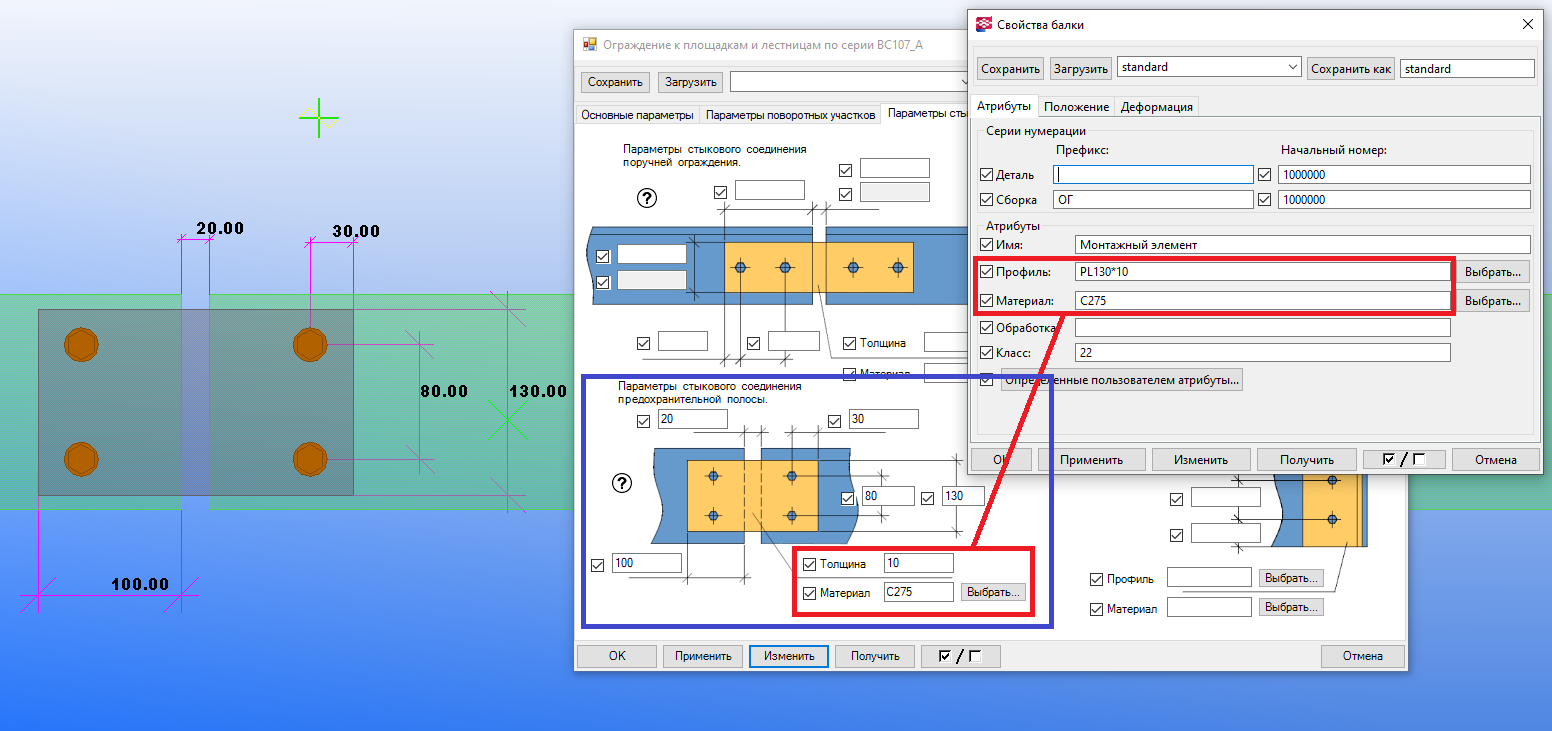
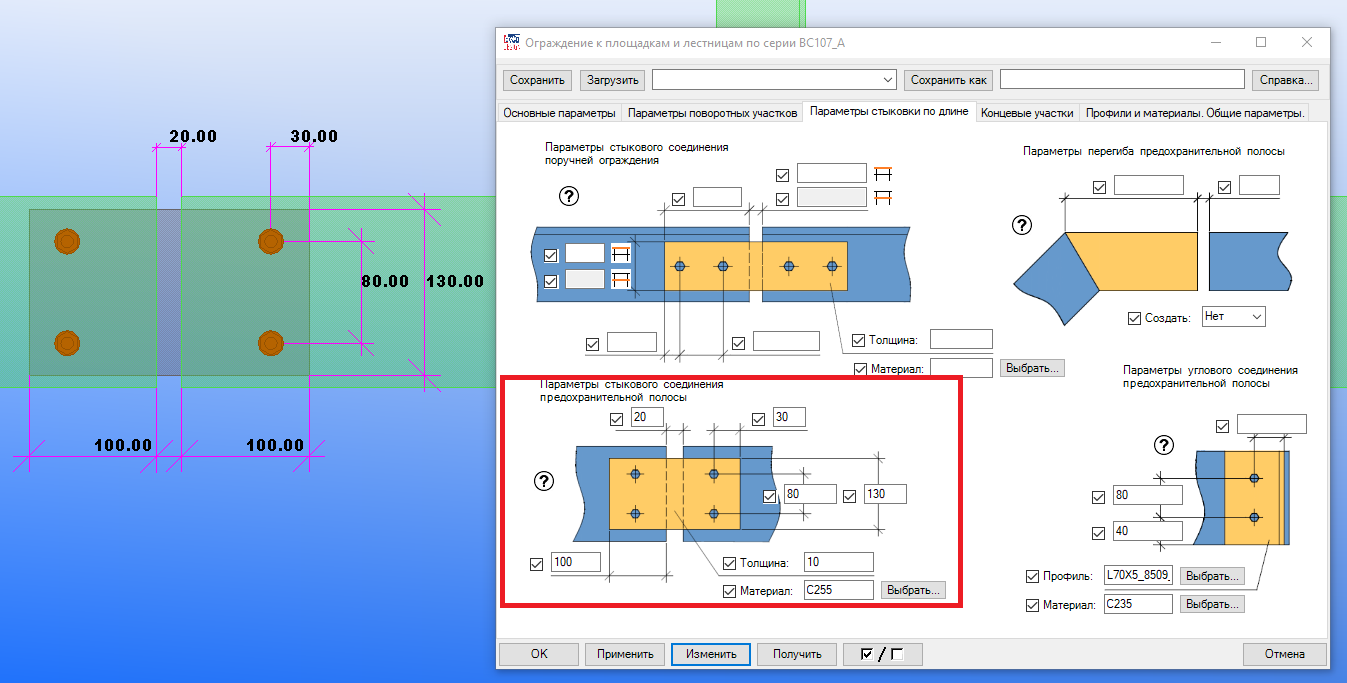
1

diff --git a/index.md b/index.md
@@ -1,44 +1,49 @@
 [TOC]
 
-# Ограждение к площадкам и лестницам по серии ВС107-А.
+# Ограждение к площадкам и лестницам по серии ВС107-А
 
-Плагин позволяет автоматически расставлять секции ограждений.
+Плагин позволяет автоматически расставлять секции ограждений на площадки и косоуры.
 
-Плагин предназначен для крепления ограждений следующего сечения:
+Предназначен для крепления ограждений следующего сечения:
 
 - Первый и второй поручни – уголок равнополочный по ГОСТ 8509-93.
-- Отбортовочная полоса – полоса или лист PL.
+- Предохранительная полоса – полоса или лист PL.
 - Стойки ограждения – уголок равнополочный ГОСТ 8509-93.
 
 Версия программы – 21.0 2017..2019i.
 
-## 1. Основные геометрические параметры.
+## Основные геометрические параметры
 
 Данное меню служит для задания базовых настроек ограждения (высоты, привязки поручней, базового шага стоек и т.д.).
 
-1. Основные базовые параметры задаются в стартовом окне плагина. Ими являются общая высота ограждения, привязка уровня нижнего поручня и его ориентация, горизонтальная и вертикальная привязка к точкам вставки плагина.
-2. Отдельно вынесены высота ограждения и привязка нижнего поручня для наклонных участков ограждения (см .рис 1.1.) и данные настройки применяются для участков ограждения, которые имеют уклон более 10 градусов.
-3. Базовый шаг стоек ограждения задается универсальным, для всех построенных секций ограждения и в дальнейшем может быть изменен индивидуально для каждой отдельной секции (см. п. 2).
-4. Базовая привязка стартовой стойки секции ограждения задается универсальной, для всех построенных секций ограждения и в дальнейшем может быть изменена индивидуально для каждой отдельной секции (см. п. 3).
+1. Базовые параметры задаются в окне плагина "Основные параметры". Задается общая высота ограждения, привязка уровня нижнего поручня и его ориентация, горизонтальная и вертикальная привязка к точкам вставки плагина.
+2. Отдельно вынесены высота ограждения и привязка нижнего поручня для наклонных участков ограждения (см .рис 1.1.) . Данные настройки применяются для участков ограждения, которые имеют уклон более *10 градусов*.
+3. Базовый шаг стоек ограждения задается универсально для всех секций ограждения, или может быть изменен индивидуально для каждой отдельной секции (см. п. 2).
+4. Базовая привязка первой стойки секции ограждения задается универсально для всех секций ограждения, или может быть изменена индивидуально для каждой отдельной секции (см. п. 3).
 
 ![1.1](pic/1.1.PNG)
 
 Рис. 1.1.
 
-## 2. Задание индивидуального шага стоек.
+## Задание индивидуального шага стоек
 
 Данное меню служит для задания индивидуального шага секции ограждения по её порядковому номеру.
 
-### Порядок задания.
+**Действия:**
 
-Следуйте по следующим шагам:
+1. Постройте плагином необходимые секции ограждения;
 
-1. Постройте плагином необходимые секции ограждения.
-2. Определите номер секции ограждения, шаг стоек которой необходимо изменять (см. рис. 2.1).
-3. Введите номер секции ограждения, точку, после точки требуемый шаг стоек секции ограждения. Например: 3.400 (см. рис. 2.2).
-4. Обновите плагин.
-5. Вводить данные параметры можно сразу для нескольких секций. Индивидуальные настройки шагов секций должны быть разделены пробелом. Например: 3.400 6.700 10.900.
-6. Порядок ввода номеров секций не важен.
+2. Определите номер секции ограждения, шаг стоек которой необходимо изменить (см. рис. 2.1);
+
+3. Введите номер секции ограждения - точка - требуемый шаг стоек секции ограждения.
+
+   Например: 3.400 (см. рис. 2.2);
+
+4. Обновите плагин;
+
+5. Вводить параметры можно сразу для нескольких секций. Индивидуальные настройки шагов секций должны быть разделены пробелом. Например: 3.400 6.700 10.900;
+
+6. Последовательность ввода номеров секций не важна.
 
 ![2.1](pic/2.1.png)
 
@@ -48,23 +53,23 @@
 
 Рис. 2.2.
 
-## 3. Задание индивидуальной привязки стоек.
+## Задание индивидуальной привязки стоек
 
-Данное меню служит для задания индивидуальной стартовой привязки стоек ограждения в соответствии с номером секции.
+Данное меню служит для задания индивидуальной начальной привязки стоек ограждения в соответствии с номером секции.
 
-### Действия.
+**Действия:**
 
-Следуйте по следующим шагам:
+1. Постройте плагином необходимые секции ограждения;
 
-1. Постройте плагином необходимые секции ограждения.
+2. Определите номер секции ограждения, начальную привязку стоек которой необходимо изменить (см. рис. 3.1);
 
-2. Определите номер секции ограждения, стартовый шаг стоек которой необходимо изменять (см. рис. 3.1).
+3. Введите номер секции ограждения - точка - требуемую привязку стоек секции ограждения.
 
-3. Введите номер секции ограждения, точку, после точки требуемую стартовую привязку стоек секции ограждения. Например: 3.400 (см. рис. 2.2).
+    Например: 3.400 (см. рис. 2.2);
 
-4. Вводить данные параметры можно сразу для нескольких секций. Индивидуальные настройки шагов секций должны быть разделены пробелом. Например: 3.400 6.700 10.900.
+4. Вводить данные параметры можно сразу для нескольких секций. Индивидуальные настройки привязки стоек секций должны быть разделены пробелом. Например: 3.400 6.700 10.900;
 
-5. Порядок ввода номеров секций не важен.
+5. Последовательность ввода номеров секций не важна.
 
    ![2.1](pic/2.1.png)
 
@@ -76,17 +81,17 @@
 
    
 
-## 4. Изменение ориентации ограждения.
+## Изменение ориентации ограждения
 
 Данное меню служит для изменения ориентации секций ограждения (см. рис. 4.1. и 4.2).
 
-### Действия.
+**Действия:**
 
-После построения секций ограждения необходимо убедиться в правильности их ориентации (стороны, в которую развернуты поручни и предохранительная полоса).
+После построения секций ограждения, необходимо убедиться в правильности их ориентации (стороны, в которую развернуты поручни и предохранительная полоса).
 
-Данная настройка позволяет изменять ориентацию построенного ограждения. При этом все веденные точки ограждения меняют свой порядок на обратный, что соответственно ведет к изменению номеров секций ограждений, а также узлов.
+Данная настройка позволяет изменять ориентацию ограждения. При этом, все введенные точки ограждения меняют свой порядок на обратный, меняются номера секций и узлов.
 
-В меню выбора есть два параметра "Правый поворот" и "Левый поворот". Случаем по умолчанию является первый вариант.
+В меню выбора есть два параметра - "Правый поворот" и "Левый поворот". По умолчанию устанавливается "Правый поворот".
 
 **Внимание!** 
 
@@ -102,7 +107,7 @@
 
 Рис. 4.2.
 
-## 5. Ориентация нижнего пояса.
+## Ориентация нижнего пояса
 
 Данное меню служит для изменения ориентации нижнего поручня ограждения. 
 
@@ -118,18 +123,16 @@
 
 Рис. 5.1.
 
-## 6. Стык поручней ограждения 90 градусов.
+## Стык поручней ограждения 90 градусов
 
 Данное меню служит для задания параметров стыка поручней ограждения под 90 градусов.
 
-### Действия.
-
 Настройки плагина позволяют регулировать:
 
-1. Привязку болтов к краю стыковочной пластины, а также шаг болтов по горизонтали. Позиционирование болтов по вертикали выполнено таким образом, что они от центрованы по стыковочной пластине.
-2. По вертикали болты привязываются к наружной грани стыковочной пластины.
-3. Настройки позволяют регулировать профиль и материал стыковочной пластины.
-4. Если высота уголка нижнего поручня принимается 40 мм и менее (профиль L40 и менее), то стыковочная планка не создаётся и поручни стыкуют только регулированием подрезки (см. рис. 6.3).
+1. Привязку болтов к краю стыковочной пластины, а также шаг болтов по горизонтали. Привязка болтов по вертикали выполнена по центру пластины;
+2. По горизонтали болты привязываются к грани стыковочной пластины.
+3. Настройки позволяют регулировать профиль и материал стыковочной пластины;
+4. Если высота уголка нижнего поручня принимается 40 мм и менее (профиль L40 и менее), то стыковочная планка не создаётся, поручни стыкуют только регулированием подрезки (см. рис. 6.3).
 
 ![6.1](pic/6.1.PNG)
 
@@ -143,18 +146,16 @@
 
 Рис 6.3.
 
-## 7. Перегиб поручней ограждения.
+## Перегиб поручней ограждения
 
 Данное меню служит для задания параметров перегиба поручней ограждения.
 
-### Действия.
-
 Настройки плагина позволяют регулировать:
 
-1. Зазор между стыкуемыми поручнями.
-2. Привязку болтов к краю стыковочной планки, а также шаг болтов по горизонтали. Позиционирование болтов по вертикали выполнено таким образом, что центр группы болтов совмещен с центром стыковочной планки.
-3. Регулировать длину стыковочной планки, ее высоту, толщину и материал.
-4. Если высота уголка нижнего поручня принимается 40 мм и менее (профиль L40 и менее), то стыковочная планка не создаётся и поручни стыкуют только регулированием подрезки (см. рис. 7.2.).
+1. Зазор между стыкуемыми поручнями;
+2. Привязку болтов к краю стыковочной планки, шаг болтов по горизонтали. Привязка болтов по вертикали выполнена по центру пластины;
+3. Регулировать длину стыковочной планки, ее высоту, толщину и материал;
+4. Если высота уголка нижнего поручня принимается 40 мм и менее (профиль L40 и менее), то стыковочная планка не создаётся и поручни стыкуют только регулированием подрезки (см. рис. 7.2.);
 5. Поле ввода белого цвета предназначено для верхних поручней ограждения, серого цвета - для нижних поручней ограждения.
 
 ![7.1](pic/7.1.PNG)
@@ -165,18 +166,18 @@
 
 Рис. 7.2.
 
-## 8. Смещение коротких участков поручней при внутреннем повороте ограждения.
+## Смещение коротких участков поручней при внутреннем повороте ограждения
 
 Данное меню служит для формирования правильной геометрии ограждения при построении внутреннего участка ограждения лестничных маршей.
 
-### Действия.
+**Действия:**
 
-1. После построения внутреннего поворота лестничных ограждений, первоначально может быть сформирована геометрия, не позволяющая верно построить узлы соединения поручней (см. рис. 8.1).
-2. Для того, чтобы сместить короткий участок ограждения, необходимо указать его номер, а также величину смещения (см. рис. 8.2.).
-3. Отдельно указываются номера узлов и значение смещения для нижних и верхних профилей.
-4. Номера секций могут быть указаны через пробел. Например: 3 5 9 10.
-5. Порядок ввода номеров узлов не важен.
-6. Параметры смещения принимаются равными для всех указанных в этом разделе секций.
+При построении внутреннего поворота лестничных ограждений, первоначально может получиться геометрия, которая не позволяет верно построить узлы соединения поручней (см. рис. 8.1).
+
+2. Редактирование длины поворотного участка ограждения. Чтобы сместить короткий участок ограждения, необходимо указать его номер, а также величину смещения (см. рис. 8.2.);
+3. Отдельно указываются номера узлов, величина смещения для нижних и верхних профилей;
+4. Возможно задавать смещение для нескольких участков (узлов) одновременно. Номера узлов необходимо вводить через пробел. Например: 3 5 9 10;
+5. Последовательность ввода номеров узлов не важна.
 
 ![8.1](pic/8.1.PNG)
 
@@ -186,20 +187,18 @@
 
 Рис. 8.2.
 
-## 9. Стык поручней при помощи подрезки.
+## Стык поручней без применения болтов
 
-Данное меню служит для задания индивидуального стыка, в виде подрезки двух поручей но номеру узла.
+Данное меню служит для задания стыка поручней без применения болтов по номеру узла.
 
-### Действия.
+**Действия:**
 
-Следуйте по следующим шагам:
-
-1. Постройте плагином необходимые секции ограждения.
-2. Определите номер узла, в котором необходимо задать данный тип стыка (см. рис. 9.1).
-3. Введите номер узла. Например: 1 (см. рис. 9.2). Отдельно вводятся номера узлов для верхних и нижних поручней. 
-4. Обновите плагин.
-5. Вводить данные параметры можно сразу для нескольких узлов. Номера узлов необходимо вводить через пробел, например: 1 5 9 10.
-6. Порядок ввода номеров узлов не важен.
+1. Постройте плагином необходимые секции ограждения;
+2. Определите номер узла, в котором необходимо задать данный тип стыка (см. рис. 9.1);
+3. Введите номер узла. Например: 1 (см. рис. 9.2). Отдельно вводятся номера узлов для верхних и нижних поручней.;
+4. Обновите плагин;
+5. Применять данный стык можно для нескольких узлов одновременно. Номера узлов необходимо вводить через пробел, например: 1 5 9 10;
+6. Последовательность ввода номеров узлов не важна.
 
 ![9.1](pic/9.1.PNG)
 
@@ -209,18 +208,16 @@
 
 Рис. 9.2.
 
-## 10. Стык поручней ограждения по длине.
+## Стык поручней ограждения по длине
 
-Данное меню служит для задания параметров стыка поручней ограждения по длине.
-
-### Действия.
+Данное меню служит для задания параметров узла соединения поручней ограждения по длине.
 
 Настройки плагина позволяют регулировать:
 
-1. Зазор между стыкуемыми поручнями.
-2. Привязку болтов к краю стыковочной планки, а также шаг болтов по горизонтали. Позиционирование болтов по вертикали выполнено таким образом, что центр группы болтов совмещен с центром стыковочной планки.
-3. Регулировать длину стыковочной планки, ее высоту, толщину и материал.
-4. Если высота уголка нижнего поручня принимается 40 мм и менее (профиль L40 и менее), то стыковочная планка не создаётся и поручни стыкуют только регулированием подрезки (см. рис. 10.2.).
+1. Зазор между соединяемыми элементами;
+2. Привязку болтов к краю соединительной пластины,  шаг болтов. Привязка болтов по вертикали выполнена по центру пластины;
+3. Регулировать длину соединительной пластины, ее высоту, толщину и материал;
+4. Если высота уголка нижнего поручня принимается 40 мм и менее (профиль L40 и менее), то соединительная пластина не создаётся. Стыковка поручней выполняется регулированием подрезки (см. рис. 10.2.);
 5. Поле ввода белого цвета предназначено для верхних поручней ограждения, серого цвета - для нижних поручней ограждения.
 
 ![10.1](pic/10.1.PNG)
@@ -231,33 +228,32 @@
 
 Рис. 10.2.
 
-## 11. Стык предохранительной полосы по длине.
+## Стык предохранительной полосы по длине
 
 Данное меню служит для задания параметров стыка предохранительной полосы по длине.
 
-### Действия.
-
 Настройки плагина позволяют регулировать:
 
-1. Зазор между стыкуемыми предохранительными планками.
-2. Привязку болтов к краю стыковочной планки, а также шаг болтов по вертикали. Позиционирование болтов по вертикали выполнено таким образом, что центр группы болтов совмещен с центром стыковочной планки.
-3. Регулировать длину стыковочной планки, ее высоту, толщину и материал.
+1. Зазор между соединяемыми элементами;
+2. Привязку болтов к краю соединительной пластины,  шаг болтов. Привязка болтов по вертикали выполнена по центру пластины;
+3. Регулировать длину соединительной пластины, ее высоту, толщину и материал;
 4. Поле ввода белого цвета предназначено для верхних предохранительных планок, серого цвета - для нижних предохранительных планок.
 
 ![11.1](pic/11.1.PNG)
 
 Рис. 11.1.
 
-## 12. Перегиб предохранительной полосы.
+## Перегиб предохранительной полосы
 
-Данное меню служит для задания параметров перегиба предохранительной полосы.
+Данное меню служит для формирования узла перехода наклонного участка ограждения на прямой.
 
-### Действия.
+**Действия:**
 
-1. По умолчанию стык предохранительных полос при перегибе строится только при помощи подрезки встык (см. рис. 12.1).
-2. При выборе в меню "Создать" данного узла пункта "Да", узел стыковки будет выполнен при помощи короткого прямого участка, состыкованного с наклонной предохранительной полосой встык.
-3. Прямой участок стыка в свою очередь соединятся с прямым участком при помощи стыковочной планки. Настройки которой берутся из узла стыковки предохранительных планок по длине (см. п. 11)
-4. Плагин позволяет регулировать длину прямого стыковочного участка, а также зазор, между их и прямым участком ограждения (см. рис. 12.2).
+1. По умолчанию перегиб предохранительной полосы выполняется встык на заводской сварке (см. рис. 12.1).
+2. При выборе в меню "Создать" данного узла пункта "Да", узел стыковки будет выполнен на болтах при помощи короткого прямого участка и соединительной пластины;
+3.  Прямой участок соединяется с наклонной предохранительной полосой на заводской сварке;
+4. Настройки соединительной пластины берутся из узла стыковки секций ограждения по длине (см. п. 11);
+5. Плагин позволяет регулировать длину прямого стыковочного участка, зазор между соединяемыми элементами (см. рис. 12.2).
 
 ![12.1](pic/12.1.PNG)
 
@@ -267,18 +263,16 @@
 
 Рис. 12.2.
 
-## 13. Стык предохранительной полосы 90 градусов.
+## Стык предохранительной полосы 90 градусов
 
 Данное меню служит для задания параметров стыка предохранительной полосы под 90 градусов.
 
-### Действия.
-
 Настройки плагина позволяют регулировать:
 
-1. Привязку болтов к краю стыковочного уголка, а также шаг болтов по вертикали. Позиционирование болтов по вертикали выполнено таким образом, что задается привязка к нижнему краю стыковочного уголка.
-2. По горизонтали болты привязываются к наружной грани уголка.
-3. Настройки позволяют регулировать профиль и материал стыковочного уголка.
-4. Длина уголка равна высоте предохранительной планки.
+1. Привязку болтов к краю стыковочного уголка, привязку болтов по вертикали, шаг болтов по вертикали;
+2. По горизонтали болты привязываются к наружной грани уголка;
+3. Профиль и материал стыковочного уголка;
+4. Длина уголка равна высоте предохранительной полосы.
 
 ![13.1](pic/13.1.PNG)
 
@@ -288,15 +282,15 @@
 
 Рис 13.2.
 
-## 14. Регулирование концевых участков.
+## Регулирование концевых участков
 
-Данное меню служит для задания привязок стартовых и конечных участков поручней ограждения, а также предохранительной полосы.
+Данное меню служит для задания привязок поручней и предохранительной полосы для первой и последней секции ограждений.
 
-### Действия.
+**Действия:**
 
-1. После построения плагина можно указать отступы подрезок стартовых и конечных поручней и предохранительных полос.
-2. Расстояние задается от точек вставки плагина (см. рис. 14.1).
-3. При задании отрицательных значений, подрезка будет размещена в противоположную от точки вставки сторону.
+1. После построения плагина можно указать привязки поручней и предохранительной полосы для первой и последней секции ограждений;
+2. Расстояние задается от точек вставки плагина (см. рис. 14.1);
+3. При задании отрицательных значений, поручни или предохранительная полоса будут подрезаны в противоположную сторону от точки вставки.
 
 ![14.1](pic/14.1.PNG)
 
